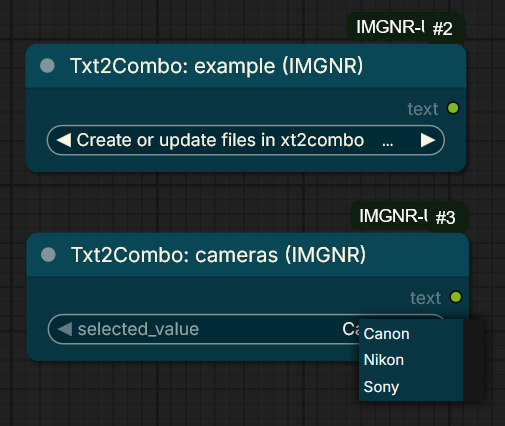
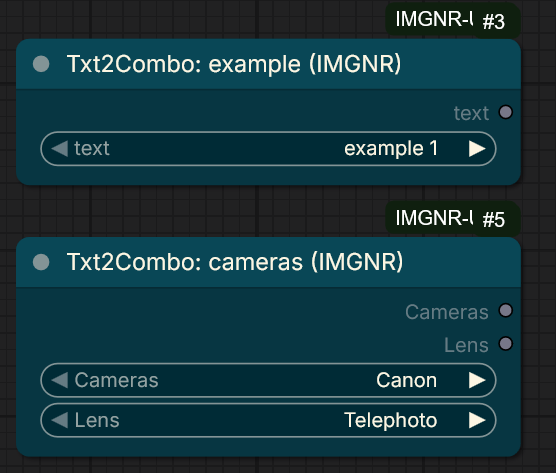
Txt2Combo Multiple Comboboxes, Fix hovertext on Catch_Edit_Text

diff --git a/js/catch_edit_text.js b/js/catch_edit_text.js
@@ -1,6 +1,7 @@
 // IMGNR-Utils/js/catch_edit_text.js
 // Version: Status Color + Toggle 
 // Support Soft + Hard Mute
+// Fix: Disabled native tooltip popup on text widget
 
 import { app } from "../../../scripts/app.js";
 
@@ -17,6 +18,18 @@ app.registerExtension({
                 const node = this;
                 const actionWidget = node.widgets.find(w => w.name === "action");
                 const colorToggleWidget = node.widgets.find(w => w.name === "use_status_color");
+
+                // ---  DISABLE NATIVE BROWSER TOOLTIP ---
+                // Prevents the full text content from popping up when hovering
+                const textWidget = node.widgets.find(w => w.name === "editable_text_widget");
+                if (textWidget && textWidget.inputEl) {
+                    textWidget.inputEl.title = "";
+                    Object.defineProperty(textWidget.inputEl, "title", {
+                        get() { return ""; },
+                        set(_) { }
+                    });
+                }
+                // -------------------------------------------
 
                 // --- HELPER: Set Upstream Mode & Visuals ---
                 const updateStatus = () => {

diff --git a/txt2combo.py b/txt2combo.py
@@ -39,7 +39,7 @@ def create_file_if_missing(filename, content_list):
             print(f"[Txt2Combo] Error creating {filename}: {e}")
 
 create_file_if_missing("example.txt", ["example 1", "example 2", "example 3", "Values stored in User>IMGNR-Utils>Txt2Combo"])
-create_file_if_missing("cameras.txt", ["Canon", "Nikon", "Sony"])
+create_file_if_missing("cameras.txt", ["[Cameras]", "Canon", "Nikon", "Sony", "[Lens]", "Telephoto", "Portrait", "Wide-Angle", "70mm Prime"] )
 
 
 # --- WRITER NODE ---
@@ -59,8 +59,13 @@ class Txt2ComboWriter:
     Connect the 'inspect' output to almost any existing 
     combobox to populate text box with values.
     Very handy to filter longer combos to just the combos you need. 
-     'inspect' functionality is heavily inspired on the wonderful 
-     [String Outputlist by GeroldMeisinger](https://github.com/geroldmeisinger/ComfyUI-outputlists-combiner)
+    'inspect' functionality is heavily inspired on the wonderful 
+    Outputlist-combiner by GeroldMeisinger
+
+    Multi-Combo Support:
+    You can create multiple dropdowns in a single node by using brackets `[]`.
+    Note: Adding new files or `[Sections]` requires a Server Restart to update the node's output slots. 
+    Editing items inside existing sections only requires a Refresh (R).
     """
 
     def __init__(self):
@@ -82,7 +87,7 @@ class Txt2ComboWriter:
                 "filename": ("STRING", {
                     "default": "my_new_list", 
                     "multiline": False,
-                    "tooltip": "Name for the new file. Also Name of new Txt2Combo Node"
+                    "tooltip": "Name of new Txt2Combo Node"
                 }),
                 "mode": (["overwrite", "append", "populate"], {
                     "default": "populate",
@@ -92,7 +97,7 @@ class Txt2ComboWriter:
                     "default": "", 
                     "multiline": True, 
                     "dynamicPrompts": False,
-                    "tooltip": "1 value per line"
+                    "tooltip": "List items. Use [Section Name] to create multiple combos."
                 }),
             },
             "hidden": {
@@ -104,7 +109,6 @@ class Txt2ComboWriter:
     RETURN_TYPES = ("STRING", "STRING", ANY)
     RETURN_NAMES = ("dbg_status", "dbg_output", "inspect")
     
-    # NEW: Tooltips for Outputs
     OUTPUT_TOOLTIPS = (
         "debug info",
         "debug info",
@@ -182,33 +186,94 @@ class Txt2ComboWriter:
 # --- DYNAMIC READER NODES ---
 
 class Txt2ComboBase:
-    RETURN_TYPES = (ANY,)
-    RETURN_NAMES = ("text",)
-    OUTPUT_TOOLTIPS = ("The selected text string.",)
-    
     FUNCTION = "select_text"
     CATEGORY = "IMGNR/Utils"
 
-    def select_text(self, selected_value):
-        return (selected_value,)
+    # The logic is handled dynamically below, but we need a base execute
+    def select_text(self, **kwargs):
+        # Return values in the order of the keys (which matches output order)
+        return tuple(kwargs.values())
+
+def parse_file_sections(file_path):
+    """
+    Parses a file into a dictionary of sections.
+    Format:
+    [Section1]
+    item1
+    item2
+    [Section2]
+    item3
+    """
+    sections = {}
+    current_section = "text" # Default input name if no brackets found
+    
+    # Initialize default section
+    sections[current_section] = []
+
+    if os.path.exists(file_path):
+        try:
+            with open(file_path, 'r', encoding='utf-8') as f:
+                lines = [line.strip() for line in f if line.strip()]
+            
+            for line in lines:
+                if line.startswith("[") and line.endswith("]"):
+                    # New Section Found
+                    current_section = line[1:-1] # Remove brackets
+                    if current_section not in sections:
+                        sections[current_section] = []
+                else:
+                    sections[current_section].append(line)
+        except Exception:
+            sections["Error"] = ["Error reading file"]
+    else:
+        sections["Error"] = ["File Missing"]
+
+    # Clean up: If we found sections, remove the default if it's empty
+    if len(sections) > 1 and not sections["text"]:
+        del sections["text"]
+        
+    return sections
 
 def create_dynamic_node(filename_with_ext):
+    file_path = os.path.join(target_dir, filename_with_ext)
+    
+    # 1. Parse File to get Structure
+    # We do this at Import time to define Return Names
+    sections = parse_file_sections(file_path)
+    section_keys = list(sections.keys())
+
+    # 2. Define the INPUT_TYPES method dynamically
     def input_types_method(cls):
-        file_path = os.path.join(target_dir, filename_with_ext)
-        options = ["File Missing"]
-        if os.path.exists(file_path):
-            try:
-                with open(file_path, 'r', encoding='utf-8') as f:
-                    options = [line.strip() for line in f if line.strip()] or ["File is empty"]
-            except:
-                options = ["Error reading file"]
+        # Re-parse on input check (Allows "Refresh" to update values)
+        # Note: "Refresh" cannot update keys (Outputs) without restart
+        current_sections = parse_file_sections(file_path)
         
-        return {"required": {"selected_value": (options, {"default": options[0]})}}
+        inputs = {"required": {}}
+        for key in section_keys:
+            # Fallback if key missing in new file version
+            options = current_sections.get(key, ["missing_section"]) 
+            if not options: options = ["empty"]
+            
+            inputs["required"][key] = (options, {"default": options[0]})
+            
+        return inputs
 
     safe_name = filename_with_ext.replace(".", "_").replace(" ", "_")
     internal_class_name = f"Txt2Combo_{safe_name}"
 
-    DynamicClass = type(internal_class_name, (Txt2ComboBase,), {"INPUT_TYPES": classmethod(input_types_method)})
+    # 3. Create the Class
+    DynamicClass = type(
+        internal_class_name,
+        (Txt2ComboBase,), 
+        {
+            "INPUT_TYPES": classmethod(input_types_method),
+            # Create ANY output for every section found
+            "RETURN_TYPES": (ANY,) * len(section_keys),
+            "RETURN_NAMES": tuple(section_keys),
+            "OUTPUT_TOOLTIPS": tuple([f"Output for {k}" for k in section_keys])
+        }
+    )
+
     return DynamicClass, internal_class_name
 
 

diff --git a/catch_edit_text.py b/catch_edit_text.py
@@ -38,7 +38,7 @@ class CatchEditTextNode:
                 "editable_text_widget": ("STRING", {
                     "multiline": True,
                     "default": widget_default_text,
-                    "tooltip": ""
+                    #"tooltip": ""
                 }),
                 "action": (
                     ["use_input", "use_edit_mute_input", "use_edit_block_inputnode"],

diff --git a/README.md b/README.md
@@ -5,9 +5,11 @@
   - [2. "Preview Image - No Save (IMGNR)"](#2-preview-image---no-save-imgnr)
   - [3. "U Might Have A Node For That"](#3-u-might-have-a-node-for-that)
   - [4. "Txt2Combo (IMGNR) Autonodes"](#4-txt2combo-imgnr-autonodes)
+    - [Multi-Combo Support](#multi-combo-support)
+    - [Usage Note](#usage-note)
 - [Installation](#installation)
 - [Sources, Resources, Shoutouts, Love and Inspiration](#sources-resources-shoutouts-love-and-inspiration)
-- [ChangeLog *V2.2.0 (2026-01-08)*](#changelog-v220-2026-01-08)
+- [ChangeLog *V2.2.0 (2026-01-09)*](#changelog-v220-2026-01-09)
 - [To Do / Known Issues](#to-do--known-issues)
 - [Disclaimer](#disclaimer)
 
@@ -105,6 +107,32 @@ Small utility node that enables you to easily create and use lists as selector l
   | *Using `Txt2Combo Writer` to inspect and populate the `Txt2Combo Example` node to filter an extensive list for your favorites* |
   > *Due to heavy inspiration of the 'inspect' code in the `String Outputlist` node in the [ComfyUI Outputlists Combiner by Gerold Mesinger](https://github.com/geroldmeisinger/ComfyUI-outputlists-combiner), the Txt2Combo Node and code is licensed under the [GPL-3.0 license](https://www.gnu.org/licenses/gpl-3.0.txt).*
 
+#### Multi-Combo Support
+- You can create multiple dropdowns in a single node by using brackets `[]`.
+- Example Content: (Txt2Combo Cameras Example node)
+  
+  ```yml filename="cameras.txt"
+  ```js filename="index.js"
+console.log(1)
+```
+
+  [Camera]
+  Canon
+  Nikon
+  Sony
+  [Lens]
+  Telephoto
+  Portrait
+  Wide-Angle
+  70mm Prime
+  ```
+
+- This will create a single node with two inputs ("Camera", "Lens") and two corresponding outputs.
+    
+#### Usage Note 
+- Editing items inside existing sections only requires a Refresh (R)
+- Adding new files (Nodes) or `[Sections]` requires a Server Restart to update the node's output slots.
+
 ------------------
 
 ## Installation
@@ -115,25 +143,14 @@ Small utility node that enables you to easily create and use lists as selector l
 
         ComfyUI-IMGNR-Utils
 
-- Using comfyregistry manual installation:
+- Using [comfyregistry](https://registry.comfy.org/publishers/imagineernl) manual installation:
 
         comfy node registry-install ComfyUI-IMGNR-Utils
 
 - Manual Installation
-  1. Navigate to your /ComfyUI/custom_nodes/ folder.
-  2. Run the following command to clone the repository:
+  Navigate to your `/ComfyUI/custom_nodes/` folder and run the following command to clone the repository:
 
           git clone https://github.com/ImagineerNL/ComfyUI-IMGNR-Utils
-
-  3. *(Currently no requirements to install, this is for future reference)* Navigate to your ComfyUI-IMGNR-Utils folder.
-       - Command for Portable/venv:
-
-             path/to/ComfUI/python_embeded/python.exe -s -m pip install -r requirements.txt
-
-       - Command for system Python:
-
-             pip install -r requirements.txt
-
 
 ## Sources, Resources, Shoutouts, Love and Inspiration
 
@@ -143,28 +160,30 @@ Small utility node that enables you to easily create and use lists as selector l
 - [Custom Scripts](https://github.com/pythongosssss/ComfyUI-Custom-Scripts) by Pythongosssss
 - [Inpaint Crop&Stitch](https://github.com/lquesada/ComfyUI-Inpaint-CropAndStitch) and [Interactive nodes](https://github.com/lquesada/ComfyUI-Interactive) by Luis Quesada
 - [ComfyUI Outputlists Combiner](https://github.com/geroldmeisinger/ComfyUI-outputlists-combiner) by Gerold Mesinger
+- [Screen 2 Gif Screenrecorder](https://github.com/NickeManarin/ScreenToGif) by Nicke Manarin for animations in this readme
 - [ComfyUI-ToSVG-Potracer](https://github.com/ImagineerNL/ComfyUI-ToSVG-Potracer), Smooth BW Image to Vector made by me (Shameless self-plug)
 - Gemini AI
 
-## ChangeLog *V2.2.0 (2026-01-08)*
+## ChangeLog *V2.2.0 (2026-01-09)*
 
 | Version | Notable Changes |
-| :-------------: | :------------- | 
+| :-------------: | :------------- |
 | V1.0.0 | Initial Upload |
 | V2.0.0 | Added new Utility: [UMightHaveANodeForThat](#3-u-might-have-a-node-for-that) |
 | V2.1.0 | Fix menu-item showing up unwanted and added menu in ComfyUI Settings for tweaking search/matching |
 | V2.2.0 | Fix Issue [#3](https://github.com/ImagineerNL/ComfyUI-IMGNR-Utils/issues/3), [#6](https://github.com/ImagineerNL/ComfyUI-IMGNR-Utils/issues/6) <br> Tweaks on [Catch \& Edit Text (IMGNR)](#1-catch--edit-text-imgnr) and ["Preview Image - No Save (IMGNR)"](#2-preview-image---no-save-imgnr), <br> New Nodes: [4. "Txt2Combo (IMGNR) Autonodes"](#4-txt2combo-imgnr-autonodes), <br> Added Node Descriptions and tooltips. |
-| V2.2.1 | Too Much Info!! (Reduced text on tooltips)
+| V2.2.1 | Too Much Info!! (Reduced text on tooltips) |
+| V2.3.0 | Txt2Combo Support for multiple comboboxes in 1 node, Fix: Catch&Edit Text hover showed full inputnode text |
 
 ## To Do / Known Issues
 
-- [ ] Probably not 100% compatible with nodes2.0
-- [ ] Deciding on if i want that
-- [ ] Coded partially with Gemini AI, so needs more tweaking / cleaning 
-
+- Probably not 100% compatible with nodes2.0
+- Deciding on if i want that
+- Coded partially with Gemini AI, so needs more tweaking / cleaning
 
 ## Disclaimer
 
-While tested thoroughly, and as with *all* custom nodes, **USE AT YOUR OWN RISK**.
-While tested a lot and I have a solid base of IT knowledge, I am no programmer by trade. This is a passion project for my own specific usecase and I'm sharing it so other people can benefit from it just as much as i benefitted from others. I am convinced this implementation has its flaws and it will probably not work on all other installations worldwide.
-I can not guarantee if this project will get more updates and when.
+- As with all custom nodes / files you download from the internet, **USE AT YOUR OWN RISK**.
+- Even though I have tested a lot and I have a solid base of IT knowledge, I am no programmer by trade. This is a passion project for my own specific usecase and I'm sharing it so other people can benefit from it just as much as i benefitted from others.
+- I am convinced this implementation has its flaws and it will probably not work on all other installations worldwide.
+- Theres absolutely no guarantee if this project will get more updates and when.*
